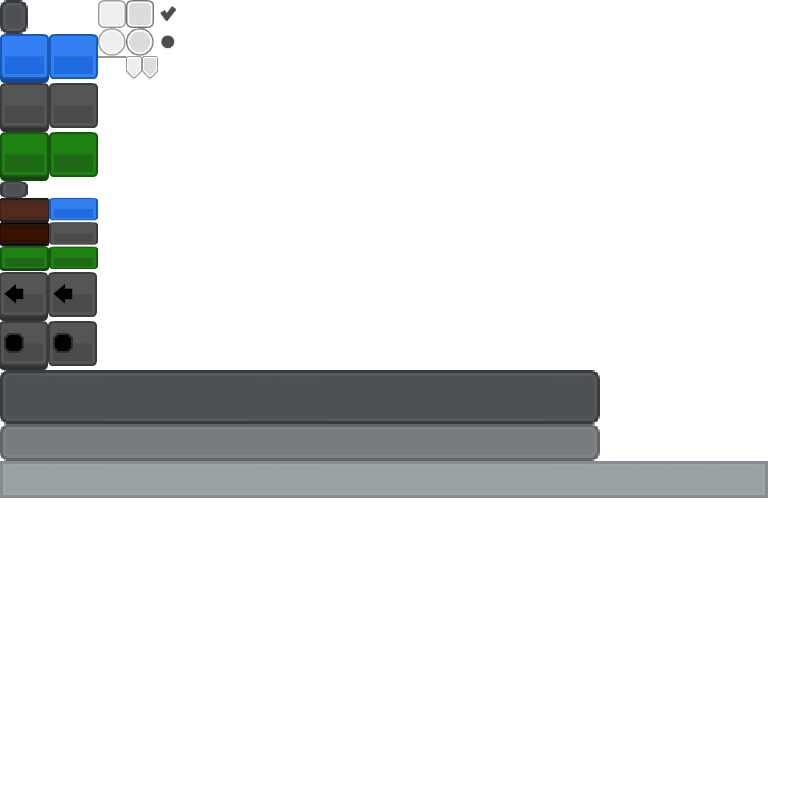
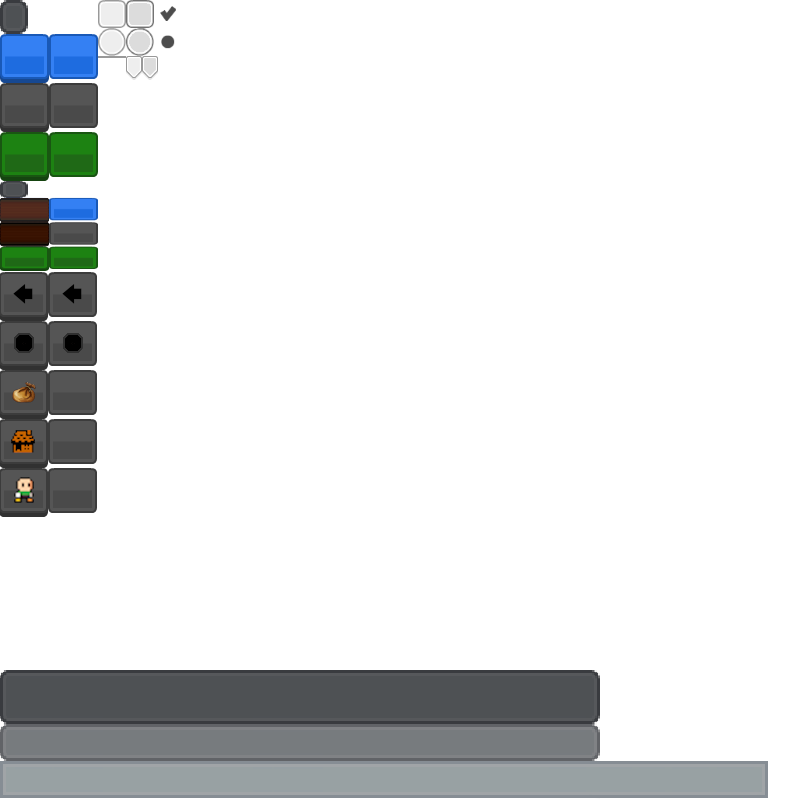
around buttons ui

Changed region(s): [[0.0, 0.4062, 0.9688, 0.6562], [0.0, 0.8125, 0.9688, 1.0], [0.0, 0.3438, 0.125, 0.375]]

diff --git a/src/engine/zone.rs b/src/engine/zone.rs
@@ -14,7 +14,7 @@ use crate::server::Server;
 use crate::sheet::TileSheet;
 use crate::socket::ZoneSocket;
 use crate::tile::zone::Tiles;
-use crate::ui::widget::button;
+use crate::ui::widget::fixed_button;
 use crate::ui::widget::link::Link;
 use crate::ui::widget::text::Text;
 use crate::ui::widget::thin_button;
@@ -64,9 +64,9 @@ pub struct ZoneEngine {
     build_menu_button_state: thin_button::State,
     exit_menu_button_state: thin_button::State,
     resume_text: Vec<(String, Option<String>)>,
-    around_items_button_state: button::State,
-    around_builds_button_state: button::State,
-    around_characters_button_state: button::State,
+    around_items_button_state: fixed_button::State,
+    around_builds_button_state: fixed_button::State,
+    around_characters_button_state: fixed_button::State,
     around_items_count: i32,
     around_builds_count: i32,
     around_characters_count: i32,
@@ -129,9 +129,9 @@ impl ZoneEngine {
             build_menu_button_state: thin_button::State::new(),
             exit_menu_button_state: thin_button::State::new(),
             resume_text,
-            around_items_button_state: button::State::new(),
-            around_builds_button_state: button::State::new(),
-            around_characters_button_state: button::State::new(),
+            around_items_button_state: fixed_button::State::new(),
+            around_builds_button_state: fixed_button::State::new(),
+            around_characters_button_state: fixed_button::State::new(),
             around_items_count: 0,
             around_builds_count: 0,
             around_characters_count: 0,
@@ -1070,31 +1070,34 @@ impl Engine for ZoneEngine {
 
         if self.around_items_count > 0 {
             right_menu = right_menu.push(
-                button::Button::new(
+                fixed_button::Button::new(
                     &mut self.around_items_button_state,
                     &self.around_items_count.to_string(),
                 )
-                .on_press(Message::AroundItemsButtonPressed),
+                .on_press(Message::AroundItemsButtonPressed)
+                .class(fixed_button::Class::Item),
             )
         }
 
         if self.around_builds_count > 0 {
             right_menu = right_menu.push(
-                button::Button::new(
+                fixed_button::Button::new(
                     &mut self.around_builds_button_state,
                     &self.around_builds_count.to_string(),
                 )
-                .on_press(Message::AroundBuildButtonPressed),
+                .on_press(Message::AroundBuildButtonPressed)
+                .class(fixed_button::Class::Build),
             )
         }
 
         if self.around_characters_count > 0 {
             right_menu = right_menu.push(
-                button::Button::new(
+                fixed_button::Button::new(
                     &mut self.around_characters_button_state,
                     &self.around_characters_count.to_string(),
                 )
-                .on_press(Message::AroundCharactersButtonPressed),
+                .on_press(Message::AroundCharactersButtonPressed)
+                .class(fixed_button::Class::Character),
             )
         }
 

diff --git a/src/ui/renderer/fixed_button.rs b/src/ui/renderer/fixed_button.rs
@@ -8,7 +8,7 @@ use coffee::ui::core::MouseCursor;
 const LEFT: Rectangle<u16> = Rectangle {
     x: 0,
     y: 272,
-    width: 24,
+    width: 37,
     height: 49,
 };
 
@@ -20,9 +20,9 @@ const BACKGROUND: Rectangle<u16> = Rectangle {
 };
 
 const RIGHT: Rectangle<u16> = Rectangle {
-    x: LEFT.height - LEFT.width,
+    x: LEFT.x + LEFT.width + BACKGROUND.width,
     y: LEFT.y,
-    width: LEFT.width,
+    width: 10,
     height: LEFT.height,
 };
 
@@ -51,6 +51,9 @@ impl fixed_button::Renderer for Renderer {
         let class_index = match class {
             fixed_button::Class::Back => 0,
             fixed_button::Class::Zone => 1,
+            fixed_button::Class::Item => 2,
+            fixed_button::Class::Build => 3,
+            fixed_button::Class::Character => 4,
         };
 
         self.sprites.add(Sprite {

diff --git a/src/ui/renderer/text.rs b/src/ui/renderer/text.rs
@@ -11,17 +11,17 @@ use std::cell::RefCell;
 use std::f32;
 
 const H1_X: u16 = 0;
-const H1_Y: u16 = 370;
+const H1_Y: u16 = 670;
 const H1_WIDTH: u16 = 600;
 const H1_HEIGHT: u16 = 54;
 
 const H2_X: u16 = 0;
-const H2_Y: u16 = 424;
+const H2_Y: u16 = 724;
 const H2_WIDTH: u16 = 600;
 const H2_HEIGHT: u16 = 37;
 
 const PARAGRAPH_X: u16 = 0;
-const PARAGRAPH_Y: u16 = 461;
+const PARAGRAPH_Y: u16 = 761;
 const PARAGRAPH_WIDTH: u16 = 768;
 const PARAGRAPH_HEIGHT: u16 = 37;
 const PARAGRAPH_Y_BORDER: u16 = 8;

diff --git a/src/ui/widget/fixed_button.rs b/src/ui/widget/fixed_button.rs
@@ -217,15 +217,11 @@ impl State {
 /// [`Button`]: struct.Button.html
 #[derive(Debug, Clone, Copy, PartialEq, Eq)]
 pub enum Class {
-    /// The [`Button`] performs the main action.
-    ///
-    /// [`Button`]: struct.Button.html
     Back,
-
-    /// The [`Button`] performs an alternative action.
-    ///
-    /// [`Button`]: struct.Button.html
     Zone,
+    Item,
+    Build,
+    Character,
 }
 
 /// The renderer of a [`Button`].
